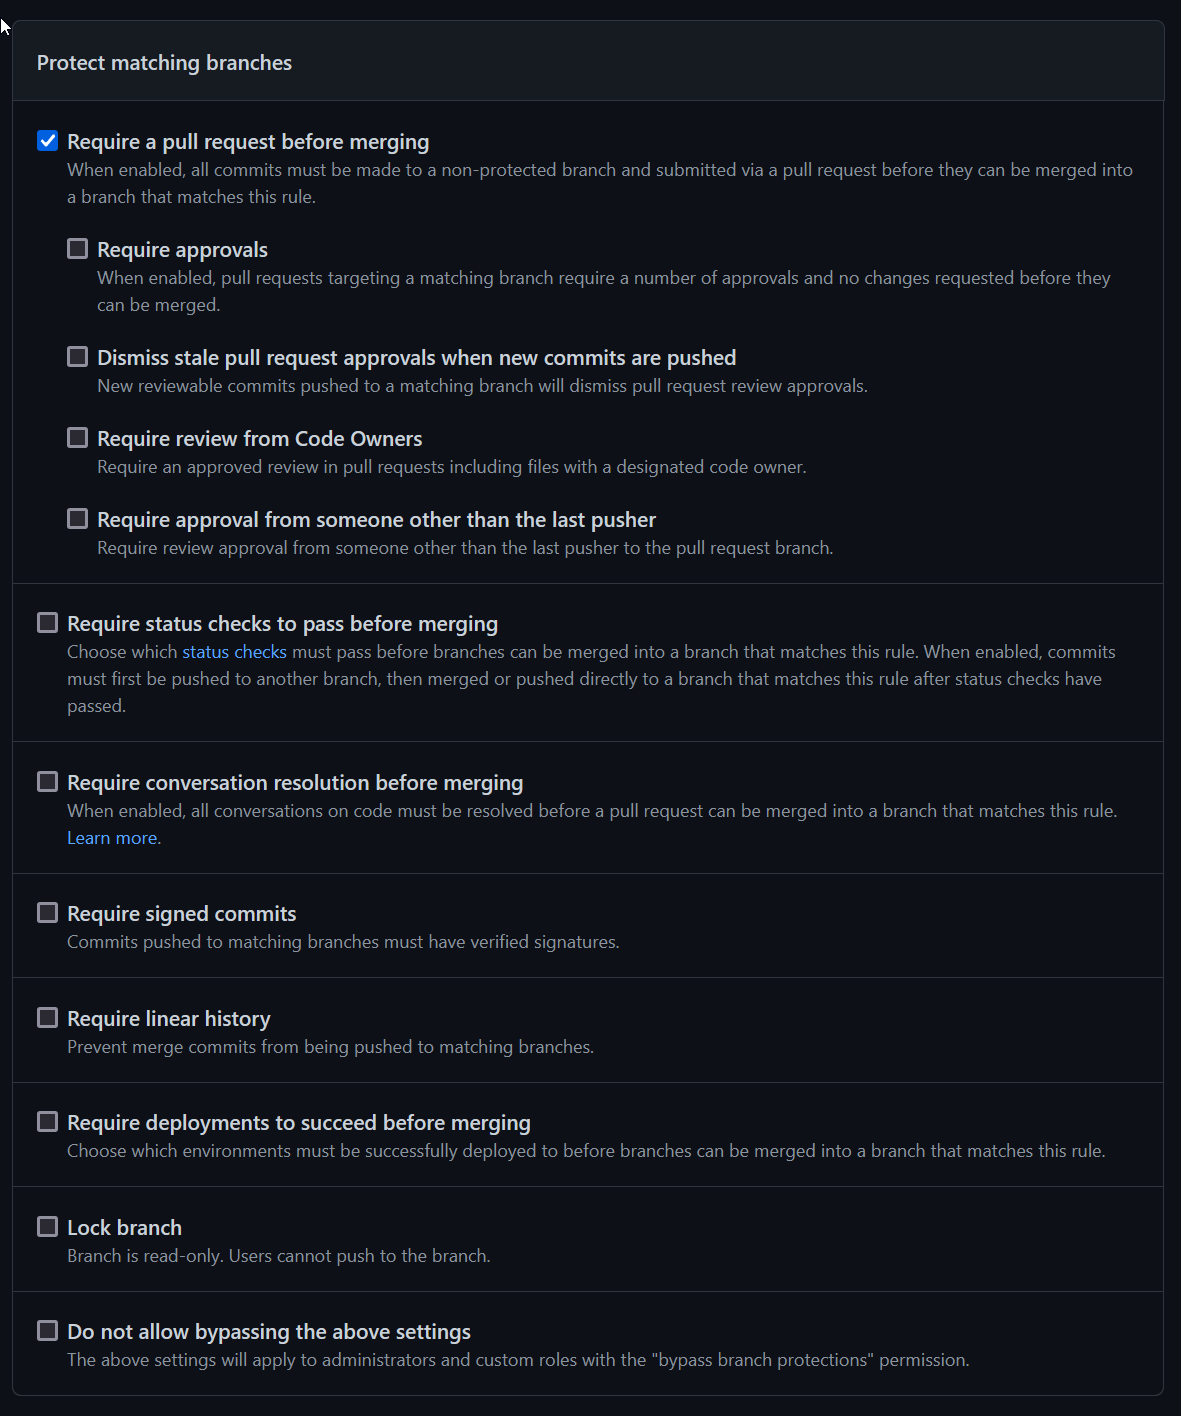
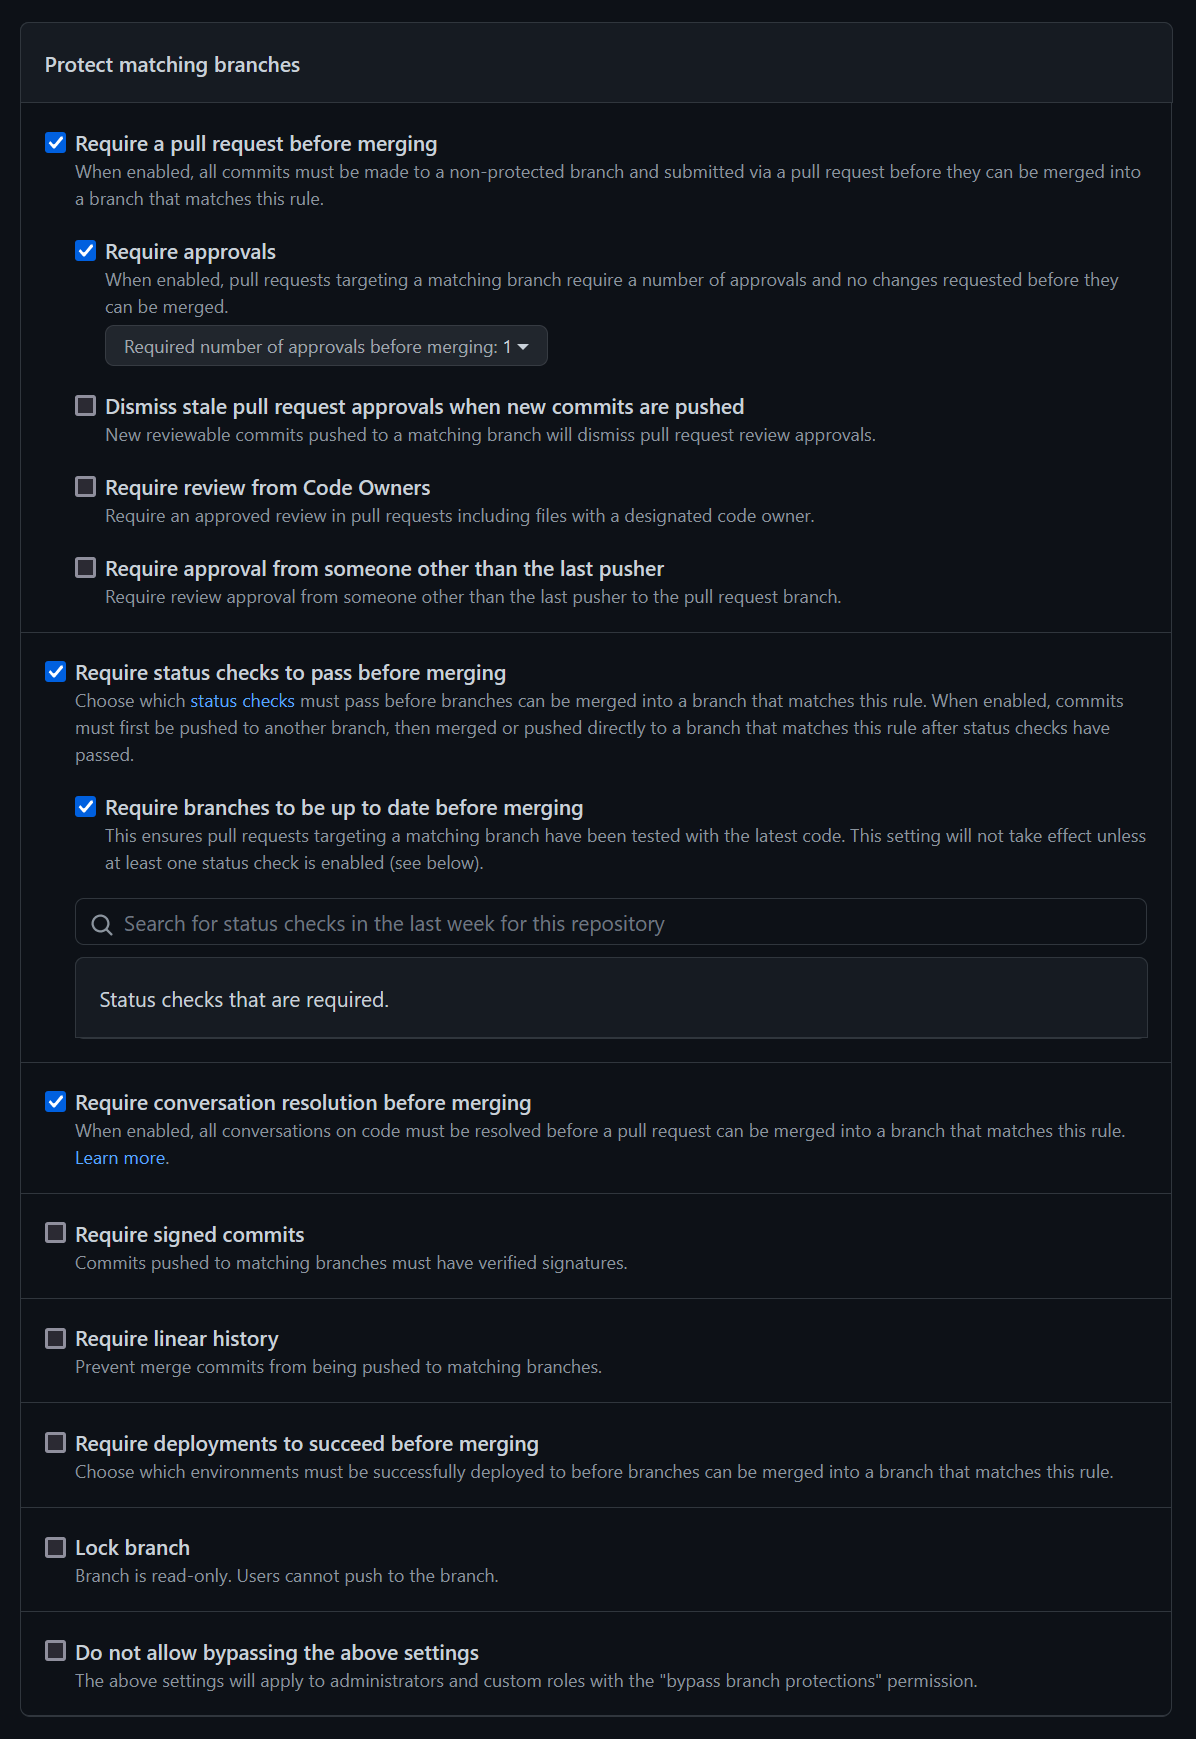
setting up repo

Changed region(s): [[0.0305, 0.0311, 0.945, 0.9944], [0.7621, 0.5593, 0.945, 0.5904], [0.6097, 0.5593, 0.7316, 0.5904]]

diff --git a/docs/getting-started.md b/docs/getting-started.md
@@ -16,34 +16,46 @@ Setting up a project for SnipFlow is fairly simple. You'll want to configure you
 
 ### Repository
 
-Settings
+The main repository configuration is to enforce the squash and merge PR strategy. Start by visiting the Settings page of your repository, under the "General" tab.
 
 <figure>
     <img src="./assets/images/gh-settings-nav-general-dark.png" alt="GitHub's settings menu with the General section highlighted" />
     <figcaption>GitHub's settings menu with the General section highlighted</figcaption>
 </figure>
 
+Scroll to the "Pull Requests" section, and ensure "Allow squash merging" is the only selected option of the (usually) 3 available. Github has a sub-option in this section to default the resulting commit message to the PR title and description, which is ideal for SnipFlow.
+
+For repo cleanliness, you may also want to automatically delete head branches - this means that after a PR is merged the relevant branch is deleted, making it easier for people to find relevant branches when needed.
+
 <figure>
     <img src="./assets/images/gh-settings-prs-dark.png" alt="GitHub's Pull Request settings pane" />
     <figcaption>GitHub's Pull Request settings pane</figcaption>
 </figure>
+
+Next, we need to ensure that PRs are enforced for any updates to the `main` branch. Go to the "Branches" section of the settings navigation.
 
 <figure>
     <img src="./assets/images/gh-settings-nav-branches-dark.png" alt="GitHub's settings menu with the Branches section highlighted" />
     <figcaption>GitHub's settings menu with the Branches section highlighted</figcaption>
 </figure>
 
+You then need to set up a protection rule set for the `main` branch, and hit the "Edit" button.
+
 <figure>
     <img src="./assets/images/gh-settings-branchprotectionrules-dark.png" alt="GitHub's Branch Protection Rules settings pane" />
     <figcaption>GitHub's Branch Protection Rules settings pane</figcaption>
 </figure>
+
+Within that branch protection rules pane, the only full requirement is to enable "Require a pull request before merging".
+
+It's a good idea to also select "Require approvals", "Require status checks to pass before merging" and "Require conversation resolution before merging". Many teams also want further restrictions in place.
 
 <figure>
     <img src="./assets/images/gh-settings-branchprotectionrules-detail-dark.png" alt="GitHub's individual Branch Protection Rules settings pane" />
     <figcaption>GitHub's individual Branch Protection Rules settings pane</figcaption>
 </figure>
 
-templates
+After updating all the settings, you may want to add [templates](./resources.md#samples-and-resources) to your repository, to help ensure that standards are met when e.g. opening Pull Requests.
 
 ### Hosting
 
